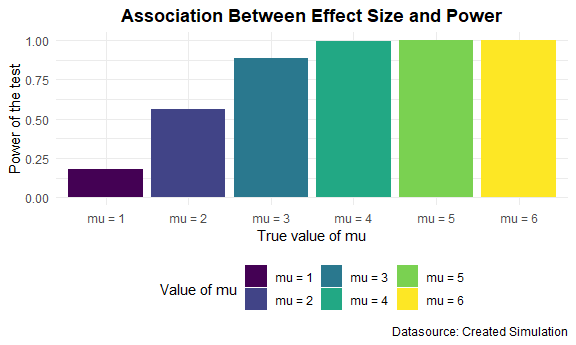
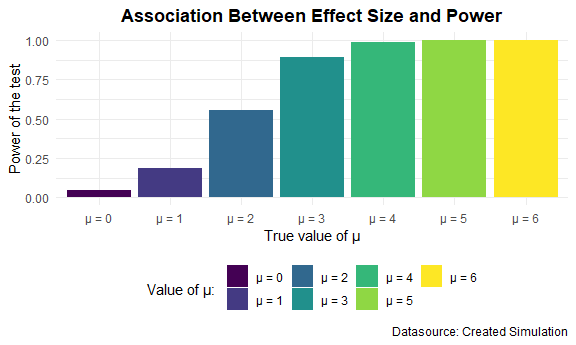
12th - added mu=0 to plot, symbol mu, changed comment including mu = 0

diff --git a/p8105_hw5_kl3069.md b/p8105_hw5_kl3069.md
@@ -23,6 +23,9 @@ Kyung Suk Lee
       - [3-3) Repeat mu = 1 to 6](#repeat-mu-1-to-6)
       - [3-4) Association between effect size and
         power](#association-between-effect-size-and-power)
+      - [3-5) Association between average estimate of μ^ and the true
+        value of
+        μ](#association-between-average-estimate-of-μ-and-the-true-value-of-μ)
 
 ``` r
 library(tidyverse)
@@ -251,7 +254,7 @@ tidy_arm_df %>%
       x = "Week",
       y = "Observation",
       caption = "Datasource: Arm Data",
-      color = "Arm") +
+      color = "Arm: ") +
   theme(plot.title = element_text(face="bold",
                                   hjust=0.5,
                                   lineheight=1.2))
@@ -299,23 +302,23 @@ sim_results %>%
     # A tibble: 5,000 x 2
        estimate p.value
           <dbl>   <dbl>
-     1   1.49    0.116 
-     2  -0.513   0.594 
-     3  -0.124   0.876 
-     4   0.0911  0.915 
-     5   0.801   0.417 
-     6   0.718   0.483 
-     7  -1.15    0.146 
-     8  -0.280   0.766 
-     9   2.39    0.0202
-    10   0.475   0.643 
+     1   -1.58   0.0761
+     2   -0.740  0.510 
+     3   -1.14   0.166 
+     4   -0.692  0.444 
+     5   -1.65   0.0274
+     6    0.736  0.399 
+     7    0.440  0.588 
+     8    0.361  0.736 
+     9    0.246  0.810 
+    10   -0.561  0.483 
     # ... with 4,990 more rows
 
 ## 3-3) Repeat mu = 1 to 6
 
 ``` r
 multi_sim_results = 
-  tibble(multi_mu = c(1, 2, 3, 4, 5, 6)) %>% 
+  tibble(multi_mu = c(0, 1, 2, 3, 4, 5, 6)) %>% 
   mutate(
     output = map(.x = multi_mu, ~rerun(5000, t_test(mu = .x))),
     estimate = map(output, bind_rows)
@@ -327,20 +330,20 @@ multi_sim_results %>%
   select(multi_mu, estimate, p.value)
 ```
 
-    # A tibble: 30,000 x 3
+    # A tibble: 35,000 x 3
        multi_mu estimate p.value
           <dbl>    <dbl>   <dbl>
-     1        1    0.203 0.842  
-     2        1    0.751 0.383  
-     3        1    1.16  0.155  
-     4        1    1.92  0.0464 
-     5        1    2.21  0.0556 
-     6        1    1.02  0.310  
-     7        1    2.48  0.00318
-     8        1    2.17  0.0486 
-     9        1    0.898 0.293  
-    10        1   -0.967 0.372  
-    # ... with 29,990 more rows
+     1        0  -0.203    0.857
+     2        0   1.72     0.101
+     3        0  -1.40     0.151
+     4        0   0.980    0.247
+     5        0  -0.568    0.455
+     6        0  -0.335    0.702
+     7        0  -0.0329   0.976
+     8        0   0.110    0.907
+     9        0   0.938    0.346
+    10        0   1.71     0.120
+    # ... with 34,990 more rows
 
 ## 3-4) Association between effect size and power
 
@@ -349,15 +352,15 @@ multi_sim_results %>%
   select(multi_mu, estimate, p.value) %>% 
   group_by(multi_mu) %>% 
   summarize(power_test = sum(p.value <= 0.05) / n()) %>% 
-  mutate(multi_mu = str_c("mu = ", multi_mu)) %>% 
+  mutate(multi_mu = str_c("μ = ", multi_mu)) %>% 
   ggplot(aes(x = multi_mu, y = power_test, fill = multi_mu)) +
   geom_bar(stat = 'identity') +
   labs(
       title = "Association Between Effect Size and Power",
-      x = "True value of mu",
+      x = "True value of μ",
       y = "Power of the test",
       caption = "Datasource: Created Simulation",
-      fill = "Value of mu") +
+      fill = "Value of μ: ") +
   theme(plot.title = element_text(face="bold",
                                   hjust=0.5,
                                   lineheight=1.2))
@@ -366,7 +369,9 @@ multi_sim_results %>%
 <img src="p8105_hw5_kl3069_files/figure-gfm/unnamed-chunk-11-1.png" width="90%" />
 
   - **Some comments on plot**: As can be seen from the above plot, as
-    the true value of mu increases from 1 to 6, the proportion of times
+    the true value of mu increases from 0 to 6, the proportion of times
     the null was rejected **(p-value less than 0.05)** or the power of
     the test increases. Thus, there is a positive relationship between
     effect size and power.
+
+## 3-5) Association between average estimate of μ^ and the true value of μ
